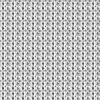
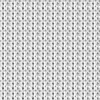
visual touches

diff --git a/css/styles.css b/css/styles.css
@@ -14,8 +14,8 @@
     --vst-default-outline: #2A3338;
     --vst-default-header: #D3D9DD;
     --vst-default-subheader: #8c9599;
-    --link-gradient-1: #e00;
-    --link-gradient-2: #900;
+    --link-1: #f00;
+    --link-2: #900;
     --danganronpa-gradient-1: #fc0;
     --danganronpa-gradient-2: #c71;
     --social-icon-size: 80px;
@@ -27,7 +27,7 @@
 @font-face { font-family: FOTComet; src: url(/fonts/FOTCometStd.otf); font-display: swap; }
 
 ::selection {
-    background-color: var(--link-gradient-2);
+    background-color: var(--link-2);
     color:white
 }
 
@@ -93,11 +93,11 @@ a {
 }
 
 a:hover {
-    color: var(--link-gradient-1);
+    color: var(--link-1);
     text-underline-offset: 10px;
 }
 
-a:active { color: var(--link-gradient-2); }
+a:active { color: var(--link-2); }
 
 hr {
     border-color: #feea;
@@ -148,7 +148,7 @@ hr {
     transition: filter var(--brand-transition);
 }
 
-.kpszh-header h1:hover { filter: drop-shadow(0 0 10px #f00); }
+.kpszh-header h1:hover { filter: drop-shadow(0 0 10px var(--link-1)); }
 
 .kpszh-header-menu a {
     font-size: 20px;
@@ -227,7 +227,6 @@ hr {
 .kpszh-social-icon svg {
     transition: filter var(--brand-transition), transform var(--brand-transition);
     will-change: filter, transform;
-    filter: drop-shadow(0 0 20px #f003);
     width: var(--social-icon-size);
 }
 
@@ -328,7 +327,7 @@ hr {
 @keyframes marqueeScroll { 100% { transform: translateX(calc(-100% - var(--marquee-gap))); } }
 
 .character-red {
-    background-image: linear-gradient(var(--link-gradient-1), var(--link-gradient-2));
+    background-image: linear-gradient(var(--link-1), var(--link-2));
     color: white;
 }
 
@@ -345,7 +344,7 @@ span.danganronpa {
     position: fixed;
     inset: 0;
     z-index: 100;
-    background-color: #000d;
+    background-color: #000c;
     justify-content: center;
     align-items: center;
     opacity: 0;
@@ -372,6 +371,7 @@ span.danganronpa {
     max-width: 100%;
     max-height: 100%;
     object-fit: contain;
+    filter: drop-shadow(0 0 20px black);
     transform: scale(.5);
     z-index: 2;
     transition: transform var(--brand-transition);
@@ -391,7 +391,7 @@ span.danganronpa {
 .image-viewer-caption {
     flex: 0 0 auto;
     font-weight: 400;
-    color: var(--link-gradient-1);
+    color: var(--link-1);
     font-size: 24px;
     text-align: center;
     z-index: 1;
@@ -705,7 +705,7 @@ a.news-link:hover { color: white; }
     width: calc(100% - 100px);
 }
 
-.news-title::first-letter { background-image: linear-gradient(var(--link-gradient-1), var(--link-gradient-2)); }
+.news-title::first-letter { background-image: linear-gradient(var(--link-1), var(--link-2)); }
 
 .news-excerpt {
     padding-top: 10px;
@@ -784,7 +784,7 @@ a.news-link:hover .news-date { opacity: 1; }
     margin-block-end: 0;
 }
 
-#main.article h1::first-letter { background-image: linear-gradient(var(--link-gradient-1), var(--link-gradient-2)); }
+#main.article h1::first-letter { background-image: linear-gradient(var(--link-1), var(--link-2)); }
 
 .article-details h2 {
     font-size: 22px;
@@ -822,7 +822,7 @@ a.news-link:hover .news-date { opacity: 1; }
     left: 0;
     width: 100%;
     height: 100%;
-    background: linear-gradient(135deg, transparent 25%, var(--link-gradient-2) 125%);
+    background: linear-gradient(135deg, transparent 25%, var(--link-2) 125%);
     z-index: 2;
     pointer-events: none;
     transition: opacity var(--brand-transition);
@@ -969,9 +969,14 @@ a.news-link:hover .news-date { opacity: 1; }
     transition: background-image var(--brand-transition), border var(--brand-transition), max-height var(--brand-transition), opacity var(--brand-transition), transform var(--brand-transition);
 }
 
-@keyframes albumPanelOverlay {
+@keyframes albumPanelNoise {
     0% { background-position: 0 0; }
     100% { background-position: 170px 460px; }
+}
+
+@keyframes albumPanelPattern {
+    0% { background-position: 0 0; }
+    100% { background-position: 0px 20px; }
 }
 
 .album-panel::before {
@@ -980,10 +985,15 @@ a.news-link:hover .news-date { opacity: 1; }
     inset: 0;
     z-index: 1;
     pointer-events: none;
-    background-image: var(--overlay-texture, url("/img/projects/noise.webp"));
-    animation: albumPanelOverlay 1s steps(10) infinite;
+    background-image: url("/img/projects/noise.webp");
+    animation: albumPanelNoise 1s steps(10) infinite;
     opacity: var(--overlay-opacity, 0);
     will-change: background-position;
+}
+
+.album-panel.md::before {
+    background-image: url("/img/projects/pattern.webp");
+    animation: albumPanelPattern 1s infinite linear;
 }
 
 @keyframes albumPanelActive {
@@ -1418,7 +1428,7 @@ a.news-link:hover .news-date { opacity: 1; }
     margin-block-end: 0;
 }
 
-#main.product h1::first-letter { background-image: linear-gradient(var(--link-gradient-1), var(--link-gradient-2)); }
+#main.product h1::first-letter { background-image: linear-gradient(var(--link-1), var(--link-2)); }
 
 .product-details h2 {
     font-size: 22px;
@@ -1456,7 +1466,7 @@ a.news-link:hover .news-date { opacity: 1; }
     left: 0;
     width: 100%;
     height: 100%;
-    background: linear-gradient(135deg, transparent 25%, var(--link-gradient-2) 125%);
+    background: linear-gradient(135deg, transparent 25%, var(--link-2) 125%);
     border-radius: 12px 12px 0 12px;
     z-index: 2;
     pointer-events: none;
@@ -1504,19 +1514,19 @@ a.news-link:hover .news-date { opacity: 1; }
     font-family: Oswald;
     text-transform: uppercase;
     font-size: 20px;
-    filter: drop-shadow(0 0 48px #f000);
+    filter: drop-shadow(0 0 48px transparent);
     transition: all var(--brand-transition);
 }
 
 .product-add-button:hover {
-    background-color: var(--link-gradient-1);
+    background-color: var(--link-1);
     background-position: right top;
-    filter: drop-shadow(0 0 8px #f00);
+    filter: drop-shadow(0 0 8px var(--link-1));
 }
 
 .product-add-button:focus {
-    background-color: var(--link-gradient-2);
-    filter: drop-shadow(0 0 8px #f00);
+    background-color: var(--link-2);
+    filter: drop-shadow(0 0 8px var(--link-1));
 }
 
 @media only screen and (max-width: 1080px) {
@@ -1532,7 +1542,7 @@ a.news-link:hover .news-date { opacity: 1; }
 /* tools.css */
 #main.tools { max-width: 1280px; }
 
-#main.tools h2 span { filter: drop-shadow(3px 7px 7px #f00b) drop-shadow(-3px -7px 7px #f00b); }
+#main.tools h2 span { filter: drop-shadow(3px 7px 7px var(--link-1)) drop-shadow(-3px -7px 7px var(--link-1)); }
 
 #main.tools h3 {
     font-size: 48.5px;
@@ -1799,7 +1809,7 @@ a.news-link:hover .news-date { opacity: 1; }
 
 .faq-question {
     background-color: black;
-    color: #fff;
+    color: white;
     width: 100%;
     padding: 20px;
     padding-right: 40px;
@@ -1817,7 +1827,7 @@ a.news-link:hover .news-date { opacity: 1; }
     position: absolute;
     right: 20px;
     user-select: none;
-    color: #ffff;
+    color: white;
     transition: transform var(--brand-transition), color var(--brand-transition);
     will-change: transform, color;
 }

diff --git a/projects.html b/projects.html
@@ -52,21 +52,21 @@
                     <video autoplay loop muted class="album-panel-video" id="albumPanelVideo"></video>
                 </div>
                 <div class="projects-grid">
-                    <a class="album-container" href="#projectsTitle">
+                    <a class="album-container">
                         <img class="album-image" data-album="mh" src="/img/covers/mh.webp">
                         <div class="album-info">
                             <div class="album-title">My Hallucination</div>
                             <div class="album-date" data-i18n="projects-mh-date"></div>
                         </div>
                     </a>
-                    <a class="album-container" href="#projectsTitle">
+                    <a class="album-container">
                         <img class="album-image" data-album="mp" src="/img/covers/mp.webp">
                         <div class="album-info">
                             <div class="album-title">My Pain</div>
                             <div class="album-date" data-i18n="projects-mp-date"></div>
                         </div>
                     </a>
-                    <a class="album-container" href="#projectsTitle">
+                    <a class="album-container">
                         <img class="album-image" data-album="md" src="/img/covers/md.webp">
                         <div class="album-info">
                             <div class="album-title">My Despair</div>
@@ -200,7 +200,6 @@
                         cover_caption: "projects-md-cover-image-caption",
                         video: "/img/projects/mydespair_deco.webm",
                         overlay_opacity: .4,
-                        overlay_texture: "/img/projects/pattern.webp",
                         type: "projects-album",
                         title: "My Despair",
                         date: "projects-md-date",
@@ -234,7 +233,6 @@
                         art.src = albums[key].art || ''; // Арт
                         video.src = albums[key].video || ''; // Видео для арта (My Despair)
                         panel.style.setProperty('--overlay-opacity', albums[key].overlay_opacity || 0); // Непрозрачность оверлея
-                        panel.style.setProperty('--overlay-texture', `url("${albums[key].overlay_texture || '/img/projects/noise.webp'}")`); // Текстура оверлея
 
                         if (albums[key].type) {
                             type.setAttribute("data-i18n", albums[key].type); // Тип релиза
